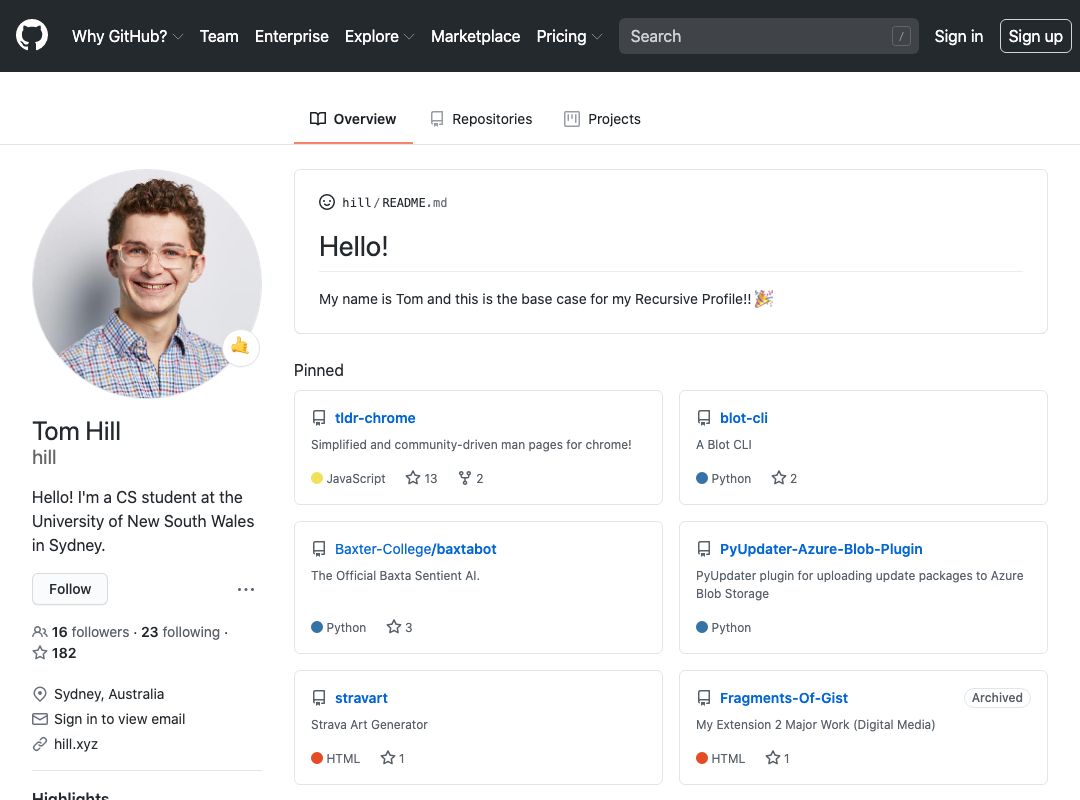
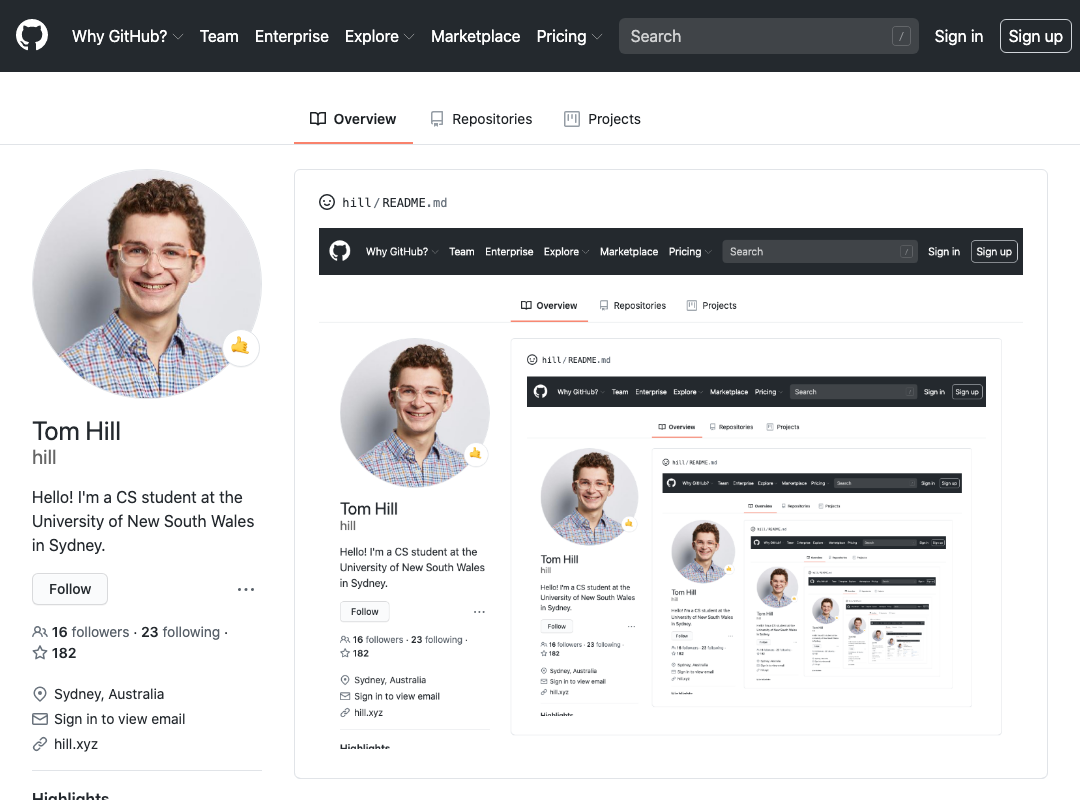
"adds new screenshot at depth 7"

diff --git a/README.md b/README.md
@@ -1,1 +1,1 @@
-![Woah!](https://github.com/hill/hill/blob/master/screenshot-8.png)
+![Woah!](https://github.com/hill/hill/blob/master/screenshot-7.png)
